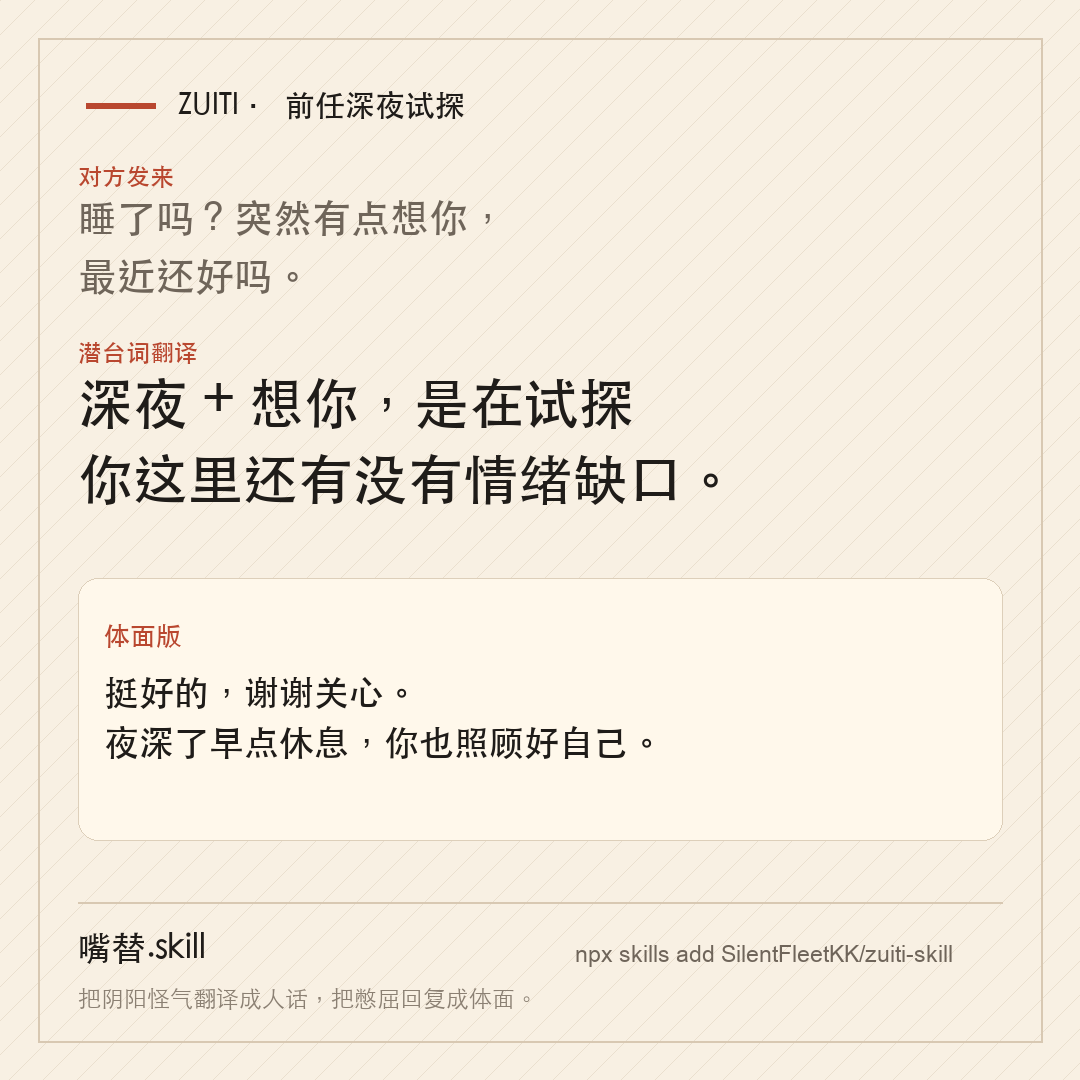
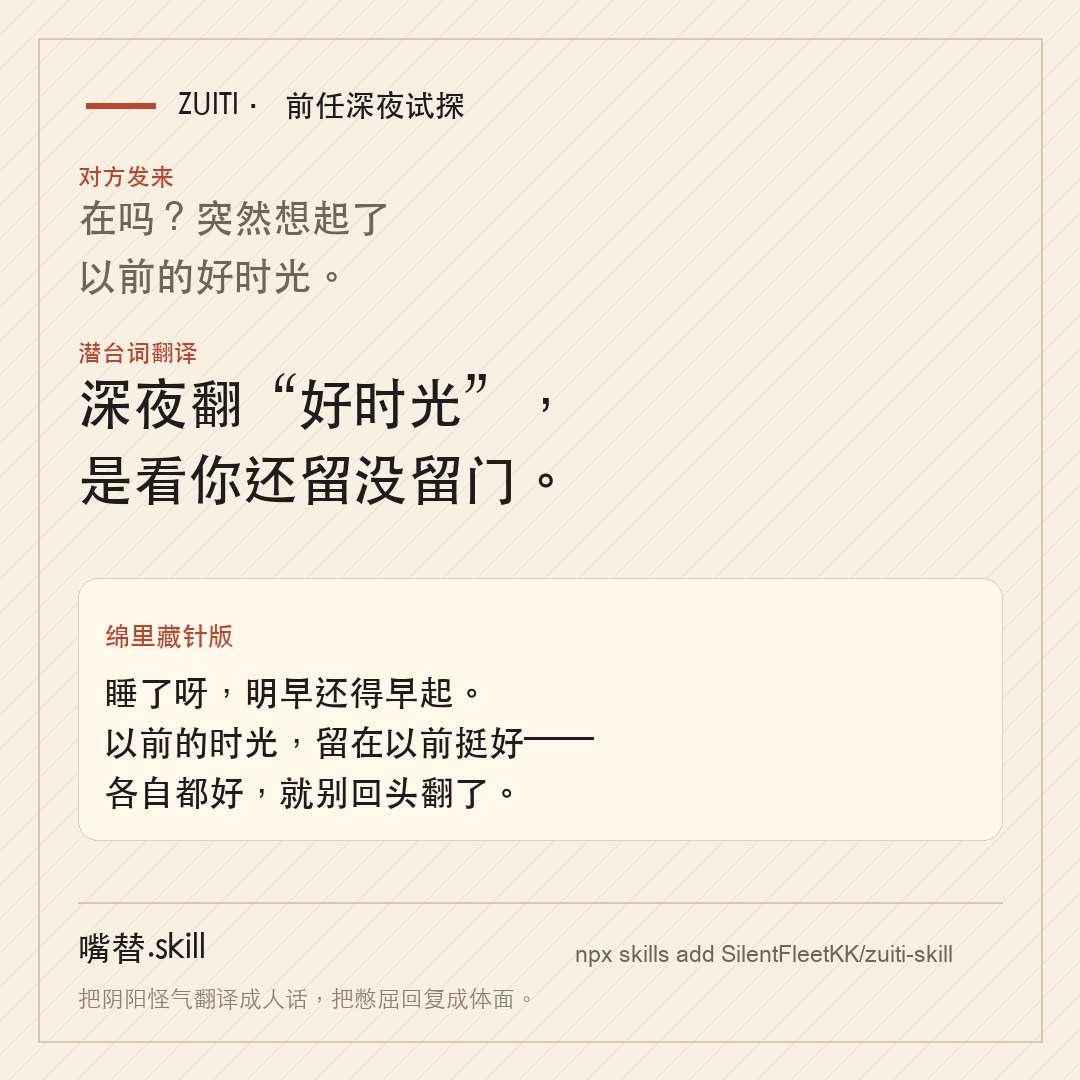
feat: 新增前任试探案例
- README 补第五个 demo，填上 ex-midnight 传播卡此前无对应 demo 的缺口
- examples/亲密关系 前任案例升级为这条更利的版本
- ex-midnight 传播卡对齐到同一条消息并重生成，README/examples/卡片三处一致

Changed region(s): [[0.0917, 0.5806, 0.5806, 0.7639], [0.0611, 0.3361, 0.6722, 0.4889], [0.0611, 0.1833, 0.4278, 0.275]]

diff --git a/tools/generate_promo_assets.py b/tools/generate_promo_assets.py
@@ -523,10 +523,10 @@ CARDS = [
     {
         "slug": "ex-midnight",
         "scene": "前任深夜试探",
-        "message": ["睡了吗？突然有点想你，", "最近还好吗。"],
-        "translation": ["深夜 + 想你，是在试探", "你这里还有没有情绪缺口。"],
-        "reply": ["挺好的，谢谢关心。", "夜深了早点休息，你也照顾好自己。"],
-        "tag": "体面版",
+        "message": ["在吗？突然想起了", "以前的好时光。"],
+        "translation": ["深夜翻“好时光”，", "是看你还留没留门。"],
+        "reply": ["睡了呀，明早还得早起。", "以前的时光，留在以前挺好——", "各自都好，就别回头翻了。"],
+        "tag": "绵里藏针版",
     },
 ]
 

diff --git a/README.md b/README.md
@@ -120,6 +120,31 @@
 📌 **发送建议**  
 先接住情绪，再把边界说清楚，效果通常比硬顶好。
 
+---
+
+### 前任深夜试探
+
+> **前前前女友**（凌晨 12 点）  
+> 在吗？突然想起了以前的好时光。
+
+🎭 **潜台词翻译**  
+深夜十二点、"在吗"起手、主动翻"以前的好时光"——试探你还有没有情绪缺口的标准三件套。真想叙旧的人会白天发、会具体说某件事；半夜甩一句模糊的"好时光"等你接，是把球轻轻抛给你，看你接不接。  
+⚖️ **误读风险：低**——信号很齐；唯一不确定的是动机（想复合，还是一时寂寞找个熟人确认自己还被记得），但这不影响你要不要接话头。
+
+💬 **三档回复**（同一扇门，三种关法）
+
+【体面版】哈哈好久不见～都挺好的吧。夜深了早点睡，各自安好。
+
+【绵里藏针版】睡了呀，明早还得早起。以前的时光是挺好的，就留在以前挺好——现在各自都过得不错，就别回头翻了。晚安。
+
+【掀桌版】我这边挺好的。不过这么晚发"好时光"，对咱俩都不太好。过去的就让它过去，我早往前走了，也希望你往前走。以后不用特意半夜问候了，晚安。
+
+🧭 **长期策略**  
+深夜试探，回得越短、越"白天化"，越能传递"我这里没有缺口"。真正决定这事的不是哪句话漂亮，是你心里那扇门关没关。
+
+📌 **发送建议**  
+心里没有要重开的意思，体面版或绵里藏针版就够——把门轻轻关上，别给深夜的试探供氧。掀桌版留给"她反复来试、你想彻底断"时。选哪档取决于你心里那个答案，这个替不了你。
+
 （更多真实对话见 [`examples/`](examples/)；传播卡片见 [`promo/cards/`](promo/cards/)。）
 
 ### 传播卡片

diff --git a/examples/亲密关系.md b/examples/亲密关系.md
@@ -51,26 +51,28 @@
 
 ---
 
-## 前任深夜发消息
+## 前任深夜试探
 
-**输入**：凌晨，前任发来："睡了吗？突然有点想你，最近还好吗。"
+**输入**：凌晨 12 点，隔了好几任的前女友发来："在吗？突然想起了以前的好时光。"
 
 🎭 潜台词翻译
-深夜 + "想你" + "最近还好吗"，是在试探你还有没有情绪缺口、能不能重新进来。真实诉求未必是复合，可能只是寂寞时想找个熟悉的人确认自己还被在乎。对你而言，关键是先想清楚自己要不要接这个话头。
+深夜十二点、"在吗"起手、主动翻"以前的好时光"——试探你还有没有情绪缺口的标准三件套。真想叙旧的人会白天发、会具体说某件事；半夜甩一句模糊的"好时光"等你接，是把球轻轻抛给你，看你接不接。动机未必是复合，也可能只是一时寂寞想找个熟人确认自己还被记得——但这不影响你要不要接话头，门在你手里。
 
-💬 三档回复
+⚖️ 误读风险：低。时间点 + 试探式起手 + 主动怀旧，信号很齐。
+
+💬 三档回复（同一扇门，三种关法）
 
 【体面版（想礼貌关上门）】
-挺好的，谢谢关心。夜深了早点休息，你也照顾好自己。
+哈哈好久不见～都挺好的吧。夜深了早点睡，各自安好。
 
 【绵里藏针版（想让对方知难而退）】
-睡了呀，明天还要早起。我这边一切都好，你不用惦记～各自安好就挺好的。
+睡了呀，明早还得早起。以前的时光是挺好的，就留在以前挺好——现在各自都过得不错，就别回头翻了。晚安。
 
-【掀桌版（想彻底说清楚）】
-我过得很好。不过这么晚说"想你"，对我们俩都不太好。过去的就让它过去吧，各自往前走，这样对谁都清爽。以后就不用特意问候了。
+【掀桌版（想一次说清、以后别再来试）】
+我这边挺好的。不过这么晚发"好时光"，对咱俩都不太好。过去的就让它过去，我早往前走了，也希望你往前走。以后不用特意半夜问候了，晚安。
 
 🧭 长期策略
-深夜试探，回应越简短、越白天化，越能传递"我这里没有缺口"。如果你确定不想重来，把话说清一次，好过来回拉扯半年。当然，选哪档取决于你自己心里的答案——这个我替不了你。
+深夜试探，回得越短、越"白天化"，越能传递"我这里没有缺口"。真正决定这事的不是哪句话漂亮，是你心里那扇门关没关——如果确定不重来，一次说清，好过被半年不定时的"在吗"钓着。选哪档取决于你心里那个答案，这个我替不了你。
 
 ---
 

diff --git a/promo/README.md b/promo/README.md
@@ -8,6 +8,6 @@
 | 亲戚催婚 | `cards/aunt-marriage.png` / `cards/aunt-marriage.svg` | 绵里藏针版 |
 | 甲方改回第一版 | `cards/client-v1.png` / `cards/client-v1.svg` | 掀桌版 |
 | 朋友借钱不还 | `cards/friend-money.png` / `cards/friend-money.svg` | 绵里藏针版 |
-| 前任深夜试探 | `cards/ex-midnight.png` / `cards/ex-midnight.svg` | 体面版 |
+| 前任深夜试探 | `cards/ex-midnight.png` / `cards/ex-midnight.svg` | 绵里藏针版 |
 
 这些卡片的结构固定为：对方发来 -> 潜台词翻译 -> 推荐回复 -> 安装命令。README 默认使用 PNG，保证 GitHub 首页稳定显示；SVG 保留给后续二次编辑。后续新增案例时，优先复用 `tools/generate_promo_assets.py` 生成，保持视觉一致。